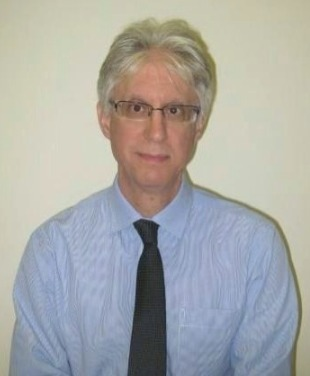
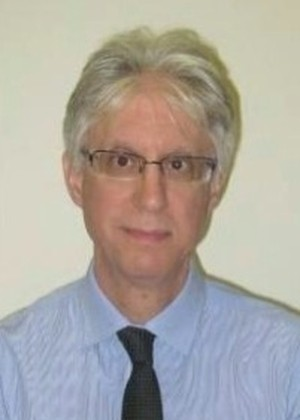
Refresh static snapshot

diff --git a/davinder-anand/index.html b/davinder-anand/index.html
@@ -50,11 +50,11 @@ img:is([sizes=auto i],[sizes^="auto," i]){contain-intrinsic-size:3000px 1500px}
 /*# sourceURL=global-styles-inline-css */
 </style>
 
-<link rel='stylesheet' id='cecd-fonts-css' href='../wp-content/themes/cecd-umd-wordpress/assets/css/fonts.css@ver=1.75.78.css' media='all' />
-<link rel='stylesheet' id='cecd-tailwind-css' href='../wp-content/themes/cecd-umd-wordpress/assets/css/tailwind.css@ver=1.75.78.css' media='all' />
-<link rel='stylesheet' id='cecd-theme-css' href='../wp-content/themes/cecd-umd-wordpress/style.css@ver=1.75.78.css' media='all' />
-<link rel='stylesheet' id='cecd-transitions-css' href='../wp-content/themes/cecd-umd-wordpress/assets/css/transitions.css@ver=1.75.78.css' media='all' />
-<link rel='stylesheet' id='cecd-fluidity-css' href='../wp-content/themes/cecd-umd-wordpress/assets/css/fluidity.css@ver=1.75.78.css' media='all' />
+<link rel='stylesheet' id='cecd-fonts-css' href='../wp-content/themes/cecd-umd-wordpress/assets/css/fonts.css@ver=1.75.79.css' media='all' />
+<link rel='stylesheet' id='cecd-tailwind-css' href='../wp-content/themes/cecd-umd-wordpress/assets/css/tailwind.css@ver=1.75.79.css' media='all' />
+<link rel='stylesheet' id='cecd-theme-css' href='../wp-content/themes/cecd-umd-wordpress/style.css@ver=1.75.79.css' media='all' />
+<link rel='stylesheet' id='cecd-transitions-css' href='../wp-content/themes/cecd-umd-wordpress/assets/css/transitions.css@ver=1.75.79.css' media='all' />
+<link rel='stylesheet' id='cecd-fluidity-css' href='../wp-content/themes/cecd-umd-wordpress/assets/css/fluidity.css@ver=1.75.79.css' media='all' />
 <meta name="generator" content="WordPress 7.1.3" />
 <link rel="canonical" href="index.html" />
 </head>
@@ -259,9 +259,9 @@ img:is([sizes=auto i],[sizes^="auto," i]){contain-intrinsic-size:3000px 1500px}
 <section class="bg-white border-t border-light-gray">			<div class="max-w-[1440px] mx-auto px-6 lg:px-10 py-20 lg:py-28">				<div class="cecd-2col items-start" data-cecd-reveal>
 			<div class="lg:col-span-5">
 															</div>
-			<div class="lg:col-span-7 cecd-stack-y-6">
-													<img decoding="async" src="../wp-content/themes/cecd-umd-wordpress/assets/img/headshots/davinder-anand.jpg" alt="Davinder K. Anand" loading="lazy" style="display: block; max-height: 220px; max-width: 160px; width: auto; height: auto; border: 1px solid #E5E5E5;" />
-													<p class="text-darker-gray font-normal" style="font-size: clamp(16px, 1.25vw, 19px); line-height: 1.7;">Davinder Kumar Anand, BME, MSME, DSc, joined The Applied Physics Laboratory of the Johns Hopkins University in 1965 as a Senior Staff member and remained there as a Consultant until 1974. In 1965, he also joined the faculty of the Mechanical Engineering Department at the University of Maryland, College Park, where he served as Assistant Professor, Associate Professor, and Professor of Mechanical Engineering. He was Professor of Systems Research from 1989-1992. He was Chairman of the Mechanical Engineering Department during the period 1991-2001 and became Professor Emeritus in 2004. In 1998, he helped establish the Center for Energetic Concepts Development and became its Director in 1999, a position he retained for the remaining active years at the University.</p>
+			<div class="lg:col-span-7 cecd-stack-y-6" style="display: flow-root;">
+													<img decoding="async" src="../wp-content/themes/cecd-umd-wordpress/assets/img/headshots/davinder-anand.jpg" alt="Davinder K. Anand" loading="lazy" style="display: block; max-height: 220px; max-width: 160px; width: auto; height: auto; border: 1px solid #E5E5E5; float: left; margin: 4px 28px 12px 0;" />
+													<p class="text-darker-gray font-normal" style="font-size: clamp(16px, 1.25vw, 19px); line-height: 1.7; margin-top: 0;">Davinder Kumar Anand, BME, MSME, DSc, joined The Applied Physics Laboratory of the Johns Hopkins University in 1965 as a Senior Staff member and remained there as a Consultant until 1974. In 1965, he also joined the faculty of the Mechanical Engineering Department at the University of Maryland, College Park, where he served as Assistant Professor, Associate Professor, and Professor of Mechanical Engineering. He was Professor of Systems Research from 1989-1992. He was Chairman of the Mechanical Engineering Department during the period 1991-2001 and became Professor Emeritus in 2004. In 1998, he helped establish the Center for Energetic Concepts Development and became its Director in 1999, a position he retained for the remaining active years at the University.</p>
 									<p class="text-darker-gray font-normal" style="font-size: clamp(16px, 1.25vw, 19px); line-height: 1.7;">He served as Program Director of the Mechanical Systems Program at National Science Foundation from 1980-1981. In 1978, he founded TPI Inc, a consulting company in energy, and sold it in 1991 when he became Chair of Mechanical Engineering at the University of Maryland, College Park. In 2001, he founded Iktara and Associates, LLC, of which he was President until 2012.</p>
 									<p class="text-darker-gray font-normal" style="font-size: clamp(16px, 1.25vw, 19px); line-height: 1.7;">His technical interests were primarily in control systems and simulation applied to satellites, solar energy and manufacturing systems. His research was supported by NIH, NSF, NASA, DOE, DOD, and industry. He consulted widely with industry and government. He published twenty-two books, almost two hundred scientific papers and has one patent. He is a Fellow of ASME, and Member of Sigma Tau, Pi Tau Sigma, Sigma Xi and Tau Beta Pi. He is a Distinguished Alumnus of George Washington University. He was awarded the Outstanding and Superior Awards by the National Science Foundation in 1981 and the Outstanding Accomplishment Award by the University of Maryland in 1984. He was honored by a Maryland Senate resolution for his contributions to CECD and Southern Maryland and April 4, 2009 was designated as the Davinder K. Anand day in Maryland. He is a Fellow of ASME and a registered Professional Engineer in the State of Maryland. He is a member of the Cosmos Club.</p>
 									<p class="text-darker-gray font-normal" style="font-size: clamp(16px, 1.25vw, 19px); line-height: 1.7;">In 2013, he founded The Neilom Foundation in memory and honor of his only son Anil Dilip, who died of cardiac arrest on November 22, 2012 at the age of 48. He spent the remainder of his life doing charitable work helping to improve the lives of young people.</p>

diff --git a/about/index.html b/about/index.html
@@ -50,11 +50,11 @@ img:is([sizes=auto i],[sizes^="auto," i]){contain-intrinsic-size:3000px 1500px}
 /*# sourceURL=global-styles-inline-css */
 </style>
 
-<link rel='stylesheet' id='cecd-fonts-css' href='../wp-content/themes/cecd-umd-wordpress/assets/css/fonts.css@ver=1.75.78.css' media='all' />
-<link rel='stylesheet' id='cecd-tailwind-css' href='../wp-content/themes/cecd-umd-wordpress/assets/css/tailwind.css@ver=1.75.78.css' media='all' />
-<link rel='stylesheet' id='cecd-theme-css' href='../wp-content/themes/cecd-umd-wordpress/style.css@ver=1.75.78.css' media='all' />
-<link rel='stylesheet' id='cecd-transitions-css' href='../wp-content/themes/cecd-umd-wordpress/assets/css/transitions.css@ver=1.75.78.css' media='all' />
-<link rel='stylesheet' id='cecd-fluidity-css' href='../wp-content/themes/cecd-umd-wordpress/assets/css/fluidity.css@ver=1.75.78.css' media='all' />
+<link rel='stylesheet' id='cecd-fonts-css' href='../wp-content/themes/cecd-umd-wordpress/assets/css/fonts.css@ver=1.75.79.css' media='all' />
+<link rel='stylesheet' id='cecd-tailwind-css' href='../wp-content/themes/cecd-umd-wordpress/assets/css/tailwind.css@ver=1.75.79.css' media='all' />
+<link rel='stylesheet' id='cecd-theme-css' href='../wp-content/themes/cecd-umd-wordpress/style.css@ver=1.75.79.css' media='all' />
+<link rel='stylesheet' id='cecd-transitions-css' href='../wp-content/themes/cecd-umd-wordpress/assets/css/transitions.css@ver=1.75.79.css' media='all' />
+<link rel='stylesheet' id='cecd-fluidity-css' href='../wp-content/themes/cecd-umd-wordpress/assets/css/fluidity.css@ver=1.75.79.css' media='all' />
 <meta name="generator" content="WordPress 7.1.3" />
 <link rel="canonical" href="index.html" />
 </head>
@@ -306,7 +306,7 @@ img:is([sizes=auto i],[sizes^="auto," i]){contain-intrinsic-size:3000px 1500px}
 					<div class="grid grid-cols-1 sm:grid-cols-2 lg:grid-cols-3 gap-6 lg:gap-8" data-cecd-reveal>
 									<a href="../mission-vision/index.html" data-cecd-stagger-child class="group block bg-white border border-light-gray p-8 lg:p-10 transition-smooth hover:border-red">
 						<p class="umd-headline text-red mb-4" style="font-size: 13px; letter-spacing: 0.22em;">
-							What we stand for						</p>
+							Mission &amp; Vision						</p>
 						<h3 class="umd-display text-black mb-4 group-hover:text-red transition-smooth" style="font-size: clamp(22px, 1.8vw, 28px); line-height: 1.15;">
 							Mission &amp; Vision						</h3>
 						<p class="text-darker-gray font-normal mb-6" style="font-size: 15px; line-height: 1.55;">
@@ -317,7 +317,7 @@ img:is([sizes=auto i],[sizes^="auto," i]){contain-intrinsic-size:3000px 1500px}
 					</a>
 									<a href="../history/index.html" data-cecd-stagger-child class="group block bg-white border border-light-gray p-8 lg:p-10 transition-smooth hover:border-red">
 						<p class="umd-headline text-red mb-4" style="font-size: 13px; letter-spacing: 0.22em;">
-							Since 1998						</p>
+							History &amp; Timeline						</p>
 						<h3 class="umd-display text-black mb-4 group-hover:text-red transition-smooth" style="font-size: clamp(22px, 1.8vw, 28px); line-height: 1.15;">
 							History &amp; Timeline						</h3>
 						<p class="text-darker-gray font-normal mb-6" style="font-size: 15px; line-height: 1.55;">
@@ -328,7 +328,7 @@ img:is([sizes=auto i],[sizes^="auto," i]){contain-intrinsic-size:3000px 1500px}
 					</a>
 									<a href="../people/index.html" data-cecd-stagger-child class="group block bg-white border border-light-gray p-8 lg:p-10 transition-smooth hover:border-red">
 						<p class="umd-headline text-red mb-4" style="font-size: 13px; letter-spacing: 0.22em;">
-							Who runs the Center						</p>
+							Leadership						</p>
 						<h3 class="umd-display text-black mb-4 group-hover:text-red transition-smooth" style="font-size: clamp(22px, 1.8vw, 28px); line-height: 1.15;">
 							Leadership						</h3>
 						<p class="text-darker-gray font-normal mb-6" style="font-size: 15px; line-height: 1.55;">

diff --git a/workforce/index.html b/workforce/index.html
@@ -50,11 +50,11 @@ img:is([sizes=auto i],[sizes^="auto," i]){contain-intrinsic-size:3000px 1500px}
 /*# sourceURL=global-styles-inline-css */
 </style>
 
-<link rel='stylesheet' id='cecd-fonts-css' href='../wp-content/themes/cecd-umd-wordpress/assets/css/fonts.css@ver=1.75.78.css' media='all' />
-<link rel='stylesheet' id='cecd-tailwind-css' href='../wp-content/themes/cecd-umd-wordpress/assets/css/tailwind.css@ver=1.75.78.css' media='all' />
-<link rel='stylesheet' id='cecd-theme-css' href='../wp-content/themes/cecd-umd-wordpress/style.css@ver=1.75.78.css' media='all' />
-<link rel='stylesheet' id='cecd-transitions-css' href='../wp-content/themes/cecd-umd-wordpress/assets/css/transitions.css@ver=1.75.78.css' media='all' />
-<link rel='stylesheet' id='cecd-fluidity-css' href='../wp-content/themes/cecd-umd-wordpress/assets/css/fluidity.css@ver=1.75.78.css' media='all' />
+<link rel='stylesheet' id='cecd-fonts-css' href='../wp-content/themes/cecd-umd-wordpress/assets/css/fonts.css@ver=1.75.79.css' media='all' />
+<link rel='stylesheet' id='cecd-tailwind-css' href='../wp-content/themes/cecd-umd-wordpress/assets/css/tailwind.css@ver=1.75.79.css' media='all' />
+<link rel='stylesheet' id='cecd-theme-css' href='../wp-content/themes/cecd-umd-wordpress/style.css@ver=1.75.79.css' media='all' />
+<link rel='stylesheet' id='cecd-transitions-css' href='../wp-content/themes/cecd-umd-wordpress/assets/css/transitions.css@ver=1.75.79.css' media='all' />
+<link rel='stylesheet' id='cecd-fluidity-css' href='../wp-content/themes/cecd-umd-wordpress/assets/css/fluidity.css@ver=1.75.79.css' media='all' />
 <meta name="generator" content="WordPress 7.1.3" />
 <link rel="canonical" href="index.html" />
 </head>
@@ -256,21 +256,10 @@ img:is([sizes=auto i],[sizes^="auto," i]){contain-intrinsic-size:3000px 1500px}
 </section>
 
 
-<section class="bg-white border-t border-light-gray" style="position:relative;overflow:hidden;">		<img decoding="async" src="../wp-content/themes/cecd-umd-wordpress/assets/img/shockwave-bg.svg" alt="" aria-hidden="true" style="position:absolute;inset:0;width:100%;height:100%;object-fit:cover;pointer-events:none;z-index:0;opacity:0.45;">	<div class="max-w-[1440px] mx-auto px-6 lg:px-10 py-20 lg:py-28" style="position:relative;z-index:1;">															<div class="cecd-2col lg:items-center" data-cecd-reveal>
-			<div class="lg:col-span-5">
-													<figure style="margin: 0;">
-		<img decoding="async" src="../wp-content/themes/cecd-umd-wordpress/assets/img/students/cecd-interns.jpg" alt="CECD interns in CECD shirts standing with two mentors in front of their project posters" loading="lazy" style="display: block; width: 100%; height: auto;" />
-	</figure>
-					</div>
-			<div class="lg:col-span-7 cecd-stack-y-6">
-																	<p class="text-darker-gray font-semibold" style="font-size: clamp(17px, 1.45vw, 22px); line-height: 1.55; letter-spacing: -0.005em;">CECD-affiliated faculty supervise MS and PhD students in energetics research at the University of Maryland.</p>
-				
-				
-				
-							</div>
-		</div>
-
-			</div>
+<section class="bg-white border-t border-light-gray" style="position:relative;overflow:hidden;"><img decoding="async" src="../wp-content/themes/cecd-umd-wordpress/assets/img/shockwave-bg.svg" alt="" aria-hidden="true" style="position:absolute;inset:0;width:100%;height:100%;object-fit:cover;pointer-events:none;z-index:0;opacity:0.45;"><div class="max-w-[1440px] mx-auto px-6 lg:px-10 py-20 lg:py-28" style="position:relative;z-index:1;">		<figure style="margin: 0 auto; max-width: 960px;" data-cecd-reveal>
+			<img decoding="async" src="../wp-content/themes/cecd-umd-wordpress/assets/img/students/cecd-interns.jpg" alt="CECD interns in CECD shirts standing with two mentors in front of their project posters" loading="lazy" style="display: block; width: 100%; height: auto;" />
+		</figure>
+	</div>
 </section>
 
 

diff --git a/people/index.html b/people/index.html
@@ -50,11 +50,11 @@ img:is([sizes=auto i],[sizes^="auto," i]){contain-intrinsic-size:3000px 1500px}
 /*# sourceURL=global-styles-inline-css */
 </style>
 
-<link rel='stylesheet' id='cecd-fonts-css' href='../wp-content/themes/cecd-umd-wordpress/assets/css/fonts.css@ver=1.75.78.css' media='all' />
-<link rel='stylesheet' id='cecd-tailwind-css' href='../wp-content/themes/cecd-umd-wordpress/assets/css/tailwind.css@ver=1.75.78.css' media='all' />
-<link rel='stylesheet' id='cecd-theme-css' href='../wp-content/themes/cecd-umd-wordpress/style.css@ver=1.75.78.css' media='all' />
-<link rel='stylesheet' id='cecd-transitions-css' href='../wp-content/themes/cecd-umd-wordpress/assets/css/transitions.css@ver=1.75.78.css' media='all' />
-<link rel='stylesheet' id='cecd-fluidity-css' href='../wp-content/themes/cecd-umd-wordpress/assets/css/fluidity.css@ver=1.75.78.css' media='all' />
+<link rel='stylesheet' id='cecd-fonts-css' href='../wp-content/themes/cecd-umd-wordpress/assets/css/fonts.css@ver=1.75.79.css' media='all' />
+<link rel='stylesheet' id='cecd-tailwind-css' href='../wp-content/themes/cecd-umd-wordpress/assets/css/tailwind.css@ver=1.75.79.css' media='all' />
+<link rel='stylesheet' id='cecd-theme-css' href='../wp-content/themes/cecd-umd-wordpress/style.css@ver=1.75.79.css' media='all' />
+<link rel='stylesheet' id='cecd-transitions-css' href='../wp-content/themes/cecd-umd-wordpress/assets/css/transitions.css@ver=1.75.79.css' media='all' />
+<link rel='stylesheet' id='cecd-fluidity-css' href='../wp-content/themes/cecd-umd-wordpress/assets/css/fluidity.css@ver=1.75.79.css' media='all' />
 <meta name="generator" content="WordPress 7.1.3" />
 <link rel="canonical" href="index.html" />
 </head>
@@ -439,7 +439,7 @@ img:is([sizes=auto i],[sizes^="auto," i]){contain-intrinsic-size:3000px 1500px}
 							<a href="https://aero.umd.edu/clark/faculty/48/Ulrich-Leiste" target="_blank" rel="noopener noreferrer" data-cecd-stagger-child class="group flex flex-col h-full bg-white border border-light-gray transition-smooth hover:border-red" style="padding: 20px;">
 					<div class="flex items-center justify-center mb-4" aria-hidden="true">
 						<div class="cecd-headshot" style="width: 100%; max-width: 130px; aspect-ratio: 5 / 7; background: #F0F0F0; display: flex; align-items: center; justify-content: center; overflow: hidden; border: 1px solid #E5E5E5;">
-															<span class="umd-display" style="font-size: 40px; color: #B0B0B0; font-style: normal; line-height: 1;">UL</span>
+															<img src="../wp-content/themes/cecd-umd-wordpress/assets/img/headshots/ulrich-leiste.jpg" alt="Ulrich Leiste" loading="lazy" decoding="async" style="width: 100%; height: 100%; object-fit: cover; object-position: center top; display: block;" />
 													</div>
 					</div>
 					<h3 class="umd-display text-black mb-2 group-hover:text-red transition-smooth" style="font-size: clamp(17px, 1.2vw, 19px); line-height: 1.15; text-align: center;">

diff --git a/academia/index.html b/academia/index.html
@@ -50,11 +50,11 @@ img:is([sizes=auto i],[sizes^="auto," i]){contain-intrinsic-size:3000px 1500px}
 /*# sourceURL=global-styles-inline-css */
 </style>
 
-<link rel='stylesheet' id='cecd-fonts-css' href='../wp-content/themes/cecd-umd-wordpress/assets/css/fonts.css@ver=1.75.78.css' media='all' />
-<link rel='stylesheet' id='cecd-tailwind-css' href='../wp-content/themes/cecd-umd-wordpress/assets/css/tailwind.css@ver=1.75.78.css' media='all' />
-<link rel='stylesheet' id='cecd-theme-css' href='../wp-content/themes/cecd-umd-wordpress/style.css@ver=1.75.78.css' media='all' />
-<link rel='stylesheet' id='cecd-transitions-css' href='../wp-content/themes/cecd-umd-wordpress/assets/css/transitions.css@ver=1.75.78.css' media='all' />
-<link rel='stylesheet' id='cecd-fluidity-css' href='../wp-content/themes/cecd-umd-wordpress/assets/css/fluidity.css@ver=1.75.78.css' media='all' />
+<link rel='stylesheet' id='cecd-fonts-css' href='../wp-content/themes/cecd-umd-wordpress/assets/css/fonts.css@ver=1.75.79.css' media='all' />
+<link rel='stylesheet' id='cecd-tailwind-css' href='../wp-content/themes/cecd-umd-wordpress/assets/css/tailwind.css@ver=1.75.79.css' media='all' />
+<link rel='stylesheet' id='cecd-theme-css' href='../wp-content/themes/cecd-umd-wordpress/style.css@ver=1.75.79.css' media='all' />
+<link rel='stylesheet' id='cecd-transitions-css' href='../wp-content/themes/cecd-umd-wordpress/assets/css/transitions.css@ver=1.75.79.css' media='all' />
+<link rel='stylesheet' id='cecd-fluidity-css' href='../wp-content/themes/cecd-umd-wordpress/assets/css/fluidity.css@ver=1.75.79.css' media='all' />
 <meta name="generator" content="WordPress 7.1.3" />
 <link rel="canonical" href="index.html" />
 </head>

diff --git a/contact/index.html b/contact/index.html
@@ -50,11 +50,11 @@ img:is([sizes=auto i],[sizes^="auto," i]){contain-intrinsic-size:3000px 1500px}
 /*# sourceURL=global-styles-inline-css */
 </style>
 
-<link rel='stylesheet' id='cecd-fonts-css' href='../wp-content/themes/cecd-umd-wordpress/assets/css/fonts.css@ver=1.75.78.css' media='all' />
-<link rel='stylesheet' id='cecd-tailwind-css' href='../wp-content/themes/cecd-umd-wordpress/assets/css/tailwind.css@ver=1.75.78.css' media='all' />
-<link rel='stylesheet' id='cecd-theme-css' href='../wp-content/themes/cecd-umd-wordpress/style.css@ver=1.75.78.css' media='all' />
-<link rel='stylesheet' id='cecd-transitions-css' href='../wp-content/themes/cecd-umd-wordpress/assets/css/transitions.css@ver=1.75.78.css' media='all' />
-<link rel='stylesheet' id='cecd-fluidity-css' href='../wp-content/themes/cecd-umd-wordpress/assets/css/fluidity.css@ver=1.75.78.css' media='all' />
+<link rel='stylesheet' id='cecd-fonts-css' href='../wp-content/themes/cecd-umd-wordpress/assets/css/fonts.css@ver=1.75.79.css' media='all' />
+<link rel='stylesheet' id='cecd-tailwind-css' href='../wp-content/themes/cecd-umd-wordpress/assets/css/tailwind.css@ver=1.75.79.css' media='all' />
+<link rel='stylesheet' id='cecd-theme-css' href='../wp-content/themes/cecd-umd-wordpress/style.css@ver=1.75.79.css' media='all' />
+<link rel='stylesheet' id='cecd-transitions-css' href='../wp-content/themes/cecd-umd-wordpress/assets/css/transitions.css@ver=1.75.79.css' media='all' />
+<link rel='stylesheet' id='cecd-fluidity-css' href='../wp-content/themes/cecd-umd-wordpress/assets/css/fluidity.css@ver=1.75.79.css' media='all' />
 <meta name="generator" content="WordPress 7.1.3" />
 <link rel="canonical" href="index.html" />
 </head>

diff --git a/government/index.html b/government/index.html
@@ -50,11 +50,11 @@ img:is([sizes=auto i],[sizes^="auto," i]){contain-intrinsic-size:3000px 1500px}
 /*# sourceURL=global-styles-inline-css */
 </style>
 
-<link rel='stylesheet' id='cecd-fonts-css' href='../wp-content/themes/cecd-umd-wordpress/assets/css/fonts.css@ver=1.75.78.css' media='all' />
-<link rel='stylesheet' id='cecd-tailwind-css' href='../wp-content/themes/cecd-umd-wordpress/assets/css/tailwind.css@ver=1.75.78.css' media='all' />
-<link rel='stylesheet' id='cecd-theme-css' href='../wp-content/themes/cecd-umd-wordpress/style.css@ver=1.75.78.css' media='all' />
-<link rel='stylesheet' id='cecd-transitions-css' href='../wp-content/themes/cecd-umd-wordpress/assets/css/transitions.css@ver=1.75.78.css' media='all' />
-<link rel='stylesheet' id='cecd-fluidity-css' href='../wp-content/themes/cecd-umd-wordpress/assets/css/fluidity.css@ver=1.75.78.css' media='all' />
+<link rel='stylesheet' id='cecd-fonts-css' href='../wp-content/themes/cecd-umd-wordpress/assets/css/fonts.css@ver=1.75.79.css' media='all' />
+<link rel='stylesheet' id='cecd-tailwind-css' href='../wp-content/themes/cecd-umd-wordpress/assets/css/tailwind.css@ver=1.75.79.css' media='all' />
+<link rel='stylesheet' id='cecd-theme-css' href='../wp-content/themes/cecd-umd-wordpress/style.css@ver=1.75.79.css' media='all' />
+<link rel='stylesheet' id='cecd-transitions-css' href='../wp-content/themes/cecd-umd-wordpress/assets/css/transitions.css@ver=1.75.79.css' media='all' />
+<link rel='stylesheet' id='cecd-fluidity-css' href='../wp-content/themes/cecd-umd-wordpress/assets/css/fluidity.css@ver=1.75.79.css' media='all' />
 <meta name="generator" content="WordPress 7.1.3" />
 <link rel="canonical" href="index.html" />
 </head>

diff --git a/history/index.html b/history/index.html
@@ -50,11 +50,11 @@ img:is([sizes=auto i],[sizes^="auto," i]){contain-intrinsic-size:3000px 1500px}
 /*# sourceURL=global-styles-inline-css */
 </style>
 
-<link rel='stylesheet' id='cecd-fonts-css' href='../wp-content/themes/cecd-umd-wordpress/assets/css/fonts.css@ver=1.75.78.css' media='all' />
-<link rel='stylesheet' id='cecd-tailwind-css' href='../wp-content/themes/cecd-umd-wordpress/assets/css/tailwind.css@ver=1.75.78.css' media='all' />
-<link rel='stylesheet' id='cecd-theme-css' href='../wp-content/themes/cecd-umd-wordpress/style.css@ver=1.75.78.css' media='all' />
-<link rel='stylesheet' id='cecd-transitions-css' href='../wp-content/themes/cecd-umd-wordpress/assets/css/transitions.css@ver=1.75.78.css' media='all' />
-<link rel='stylesheet' id='cecd-fluidity-css' href='../wp-content/themes/cecd-umd-wordpress/assets/css/fluidity.css@ver=1.75.78.css' media='all' />
+<link rel='stylesheet' id='cecd-fonts-css' href='../wp-content/themes/cecd-umd-wordpress/assets/css/fonts.css@ver=1.75.79.css' media='all' />
+<link rel='stylesheet' id='cecd-tailwind-css' href='../wp-content/themes/cecd-umd-wordpress/assets/css/tailwind.css@ver=1.75.79.css' media='all' />
+<link rel='stylesheet' id='cecd-theme-css' href='../wp-content/themes/cecd-umd-wordpress/style.css@ver=1.75.79.css' media='all' />
+<link rel='stylesheet' id='cecd-transitions-css' href='../wp-content/themes/cecd-umd-wordpress/assets/css/transitions.css@ver=1.75.79.css' media='all' />
+<link rel='stylesheet' id='cecd-fluidity-css' href='../wp-content/themes/cecd-umd-wordpress/assets/css/fluidity.css@ver=1.75.79.css' media='all' />
 <meta name="generator" content="WordPress 7.1.3" />
 <link rel="canonical" href="index.html" />
 </head>

diff --git a/industry/index.html b/industry/index.html
@@ -50,11 +50,11 @@ img:is([sizes=auto i],[sizes^="auto," i]){contain-intrinsic-size:3000px 1500px}
 /*# sourceURL=global-styles-inline-css */
 </style>
 
-<link rel='stylesheet' id='cecd-fonts-css' href='../wp-content/themes/cecd-umd-wordpress/assets/css/fonts.css@ver=1.75.78.css' media='all' />
-<link rel='stylesheet' id='cecd-tailwind-css' href='../wp-content/themes/cecd-umd-wordpress/assets/css/tailwind.css@ver=1.75.78.css' media='all' />
-<link rel='stylesheet' id='cecd-theme-css' href='../wp-content/themes/cecd-umd-wordpress/style.css@ver=1.75.78.css' media='all' />
-<link rel='stylesheet' id='cecd-transitions-css' href='../wp-content/themes/cecd-umd-wordpress/assets/css/transitions.css@ver=1.75.78.css' media='all' />
-<link rel='stylesheet' id='cecd-fluidity-css' href='../wp-content/themes/cecd-umd-wordpress/assets/css/fluidity.css@ver=1.75.78.css' media='all' />
+<link rel='stylesheet' id='cecd-fonts-css' href='../wp-content/themes/cecd-umd-wordpress/assets/css/fonts.css@ver=1.75.79.css' media='all' />
+<link rel='stylesheet' id='cecd-tailwind-css' href='../wp-content/themes/cecd-umd-wordpress/assets/css/tailwind.css@ver=1.75.79.css' media='all' />
+<link rel='stylesheet' id='cecd-theme-css' href='../wp-content/themes/cecd-umd-wordpress/style.css@ver=1.75.79.css' media='all' />
+<link rel='stylesheet' id='cecd-transitions-css' href='../wp-content/themes/cecd-umd-wordpress/assets/css/transitions.css@ver=1.75.79.css' media='all' />
+<link rel='stylesheet' id='cecd-fluidity-css' href='../wp-content/themes/cecd-umd-wordpress/assets/css/fluidity.css@ver=1.75.79.css' media='all' />
 <meta name="generator" content="WordPress 7.1.3" />
 <link rel="canonical" href="index.html" />
 </head>

diff --git a/mission-vision/index.html b/mission-vision/index.html
@@ -50,11 +50,11 @@ img:is([sizes=auto i],[sizes^="auto," i]){contain-intrinsic-size:3000px 1500px}
 /*# sourceURL=global-styles-inline-css */
 </style>
 
-<link rel='stylesheet' id='cecd-fonts-css' href='../wp-content/themes/cecd-umd-wordpress/assets/css/fonts.css@ver=1.75.78.css' media='all' />
-<link rel='stylesheet' id='cecd-tailwind-css' href='../wp-content/themes/cecd-umd-wordpress/assets/css/tailwind.css@ver=1.75.78.css' media='all' />
-<link rel='stylesheet' id='cecd-theme-css' href='../wp-content/themes/cecd-umd-wordpress/style.css@ver=1.75.78.css' media='all' />
-<link rel='stylesheet' id='cecd-transitions-css' href='../wp-content/themes/cecd-umd-wordpress/assets/css/transitions.css@ver=1.75.78.css' media='all' />
-<link rel='stylesheet' id='cecd-fluidity-css' href='../wp-content/themes/cecd-umd-wordpress/assets/css/fluidity.css@ver=1.75.78.css' media='all' />
+<link rel='stylesheet' id='cecd-fonts-css' href='../wp-content/themes/cecd-umd-wordpress/assets/css/fonts.css@ver=1.75.79.css' media='all' />
+<link rel='stylesheet' id='cecd-tailwind-css' href='../wp-content/themes/cecd-umd-wordpress/assets/css/tailwind.css@ver=1.75.79.css' media='all' />
+<link rel='stylesheet' id='cecd-theme-css' href='../wp-content/themes/cecd-umd-wordpress/style.css@ver=1.75.79.css' media='all' />
+<link rel='stylesheet' id='cecd-transitions-css' href='../wp-content/themes/cecd-umd-wordpress/assets/css/transitions.css@ver=1.75.79.css' media='all' />
+<link rel='stylesheet' id='cecd-fluidity-css' href='../wp-content/themes/cecd-umd-wordpress/assets/css/fluidity.css@ver=1.75.79.css' media='all' />
 <meta name="generator" content="WordPress 7.1.3" />
 <link rel="canonical" href="index.html" />
 </head>

diff --git a/news/index.html b/news/index.html
@@ -50,11 +50,11 @@ img:is([sizes=auto i],[sizes^="auto," i]){contain-intrinsic-size:3000px 1500px}
 /*# sourceURL=global-styles-inline-css */
 </style>
 
-<link rel='stylesheet' id='cecd-fonts-css' href='../wp-content/themes/cecd-umd-wordpress/assets/css/fonts.css@ver=1.75.78.css' media='all' />
-<link rel='stylesheet' id='cecd-tailwind-css' href='../wp-content/themes/cecd-umd-wordpress/assets/css/tailwind.css@ver=1.75.78.css' media='all' />
-<link rel='stylesheet' id='cecd-theme-css' href='../wp-content/themes/cecd-umd-wordpress/style.css@ver=1.75.78.css' media='all' />
-<link rel='stylesheet' id='cecd-transitions-css' href='../wp-content/themes/cecd-umd-wordpress/assets/css/transitions.css@ver=1.75.78.css' media='all' />
-<link rel='stylesheet' id='cecd-fluidity-css' href='../wp-content/themes/cecd-umd-wordpress/assets/css/fluidity.css@ver=1.75.78.css' media='all' />
+<link rel='stylesheet' id='cecd-fonts-css' href='../wp-content/themes/cecd-umd-wordpress/assets/css/fonts.css@ver=1.75.79.css' media='all' />
+<link rel='stylesheet' id='cecd-tailwind-css' href='../wp-content/themes/cecd-umd-wordpress/assets/css/tailwind.css@ver=1.75.79.css' media='all' />
+<link rel='stylesheet' id='cecd-theme-css' href='../wp-content/themes/cecd-umd-wordpress/style.css@ver=1.75.79.css' media='all' />
+<link rel='stylesheet' id='cecd-transitions-css' href='../wp-content/themes/cecd-umd-wordpress/assets/css/transitions.css@ver=1.75.79.css' media='all' />
+<link rel='stylesheet' id='cecd-fluidity-css' href='../wp-content/themes/cecd-umd-wordpress/assets/css/fluidity.css@ver=1.75.79.css' media='all' />
 <meta name="generator" content="WordPress 7.1.3" />
 <link rel="canonical" href="index.html" />
 </head>

diff --git a/partnerships/index.html b/partnerships/index.html
@@ -50,11 +50,11 @@ img:is([sizes=auto i],[sizes^="auto," i]){contain-intrinsic-size:3000px 1500px}
 /*# sourceURL=global-styles-inline-css */
 </style>
 
-<link rel='stylesheet' id='cecd-fonts-css' href='../wp-content/themes/cecd-umd-wordpress/assets/css/fonts.css@ver=1.75.78.css' media='all' />
-<link rel='stylesheet' id='cecd-tailwind-css' href='../wp-content/themes/cecd-umd-wordpress/assets/css/tailwind.css@ver=1.75.78.css' media='all' />
-<link rel='stylesheet' id='cecd-theme-css' href='../wp-content/themes/cecd-umd-wordpress/style.css@ver=1.75.78.css' media='all' />
-<link rel='stylesheet' id='cecd-transitions-css' href='../wp-content/themes/cecd-umd-wordpress/assets/css/transitions.css@ver=1.75.78.css' media='all' />
-<link rel='stylesheet' id='cecd-fluidity-css' href='../wp-content/themes/cecd-umd-wordpress/assets/css/fluidity.css@ver=1.75.78.css' media='all' />
+<link rel='stylesheet' id='cecd-fonts-css' href='../wp-content/themes/cecd-umd-wordpress/assets/css/fonts.css@ver=1.75.79.css' media='all' />
+<link rel='stylesheet' id='cecd-tailwind-css' href='../wp-content/themes/cecd-umd-wordpress/assets/css/tailwind.css@ver=1.75.79.css' media='all' />
+<link rel='stylesheet' id='cecd-theme-css' href='../wp-content/themes/cecd-umd-wordpress/style.css@ver=1.75.79.css' media='all' />
+<link rel='stylesheet' id='cecd-transitions-css' href='../wp-content/themes/cecd-umd-wordpress/assets/css/transitions.css@ver=1.75.79.css' media='all' />
+<link rel='stylesheet' id='cecd-fluidity-css' href='../wp-content/themes/cecd-umd-wordpress/assets/css/fluidity.css@ver=1.75.79.css' media='all' />
 <meta name="generator" content="WordPress 7.1.3" />
 <link rel="canonical" href="index.html" />
 </head>
